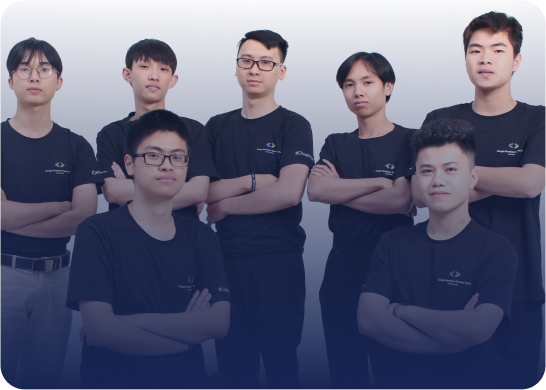
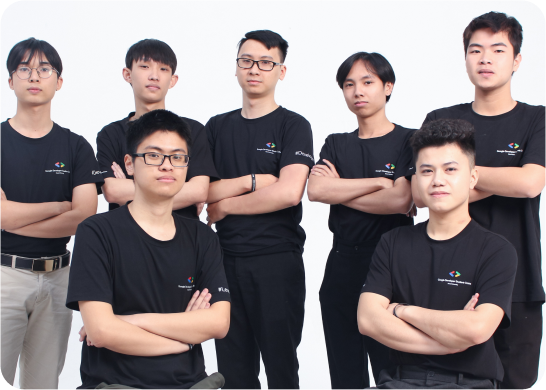
fix ui

diff --git a/src/components/recruitment/hiring-process/index.vue b/src/components/recruitment/hiring-process/index.vue
@@ -50,7 +50,7 @@ const hiringStepList = ref<HiringProcess[]>([
     img: '/hiring1.png',
     title: {
       prefix: 'Form',
-      word: 'application',
+      label: 'application',
     },
     content:
       'Although it may differ slightly depending on the role and teams, the same basics apply whether you’re applying for a tech job or a marketing job, an collaborator or a leadership position. Your process is likely to include the following stages.',
@@ -60,7 +60,7 @@ const hiringStepList = ref<HiringProcess[]>([
     img: '/hiring2.png',
     title: {
       prefix: 'Professional',
-      word: 'test',
+      label: 'test',
     },
     content:
       'Although it may differ slightly depending on the role and teams, the same basics apply whether you’re applying for a tech job or a marketing job, an collaborator or a leadership position. Your process is likely to include the following stages.',
@@ -70,7 +70,7 @@ const hiringStepList = ref<HiringProcess[]>([
     img: '/hiring3.png',
     title: {
       prefix: 'Personal',
-      word: 'Interview',
+      label: 'Interview',
     },
     content:
       'Although it may differ slightly depending on the role and teams, the same basics apply whether you’re applying for a tech job or a marketing job, an collaborator or a leadership position. Your process is likely to include the following stages.',
@@ -80,7 +80,7 @@ const hiringStepList = ref<HiringProcess[]>([
     img: '/hiring4.png',
     title: {
       prefix: 'Personal',
-      word: 'Interview',
+      label: 'Interview',
     },
     content:
       'Although it may differ slightly depending on the role and teams, the same basics apply whether you’re applying for a tech job or a marketing job, an collaborator or a leadership position. Your process is likely to include the following stages.',

diff --git a/src/components/recruitment/job-navigation-title/index.vue b/src/components/recruitment/job-navigation-title/index.vue
@@ -36,6 +36,9 @@
       </div>
       <div class="relative my-8 h-full w-full basis-3/5 md:my-0 xl:basis-1/2">
         <NuxtImg src="/gdsc.png" alt="gdsc" class="h-full w-full" />
+        <div class="absolute h-full w-full top-0">
+          <NuxtImg src="/overlay.png" alt="overlay" class="h-full w-full"></NuxtImg>
+        </div>
         <div class="absolute top-1/2 flex flex-col gap-2 px-4 sm:gap-3 lg:top-[60%] lg:px-8">
           <h1 class="text-center text-base font-bold text-white sm:text-3xl md:text-2xl lg:text-3xl">Are you a first year student or have no experience?</h1>
           <UButton

diff --git a/src/types/recruitment/hiring.ts b/src/types/recruitment/hiring.ts
@@ -3,7 +3,7 @@ stepNumber: number,
 img: string,
 title: {
     prefix: string,
-    word: string,
+    label: string,
 }
 content: string,
 }
